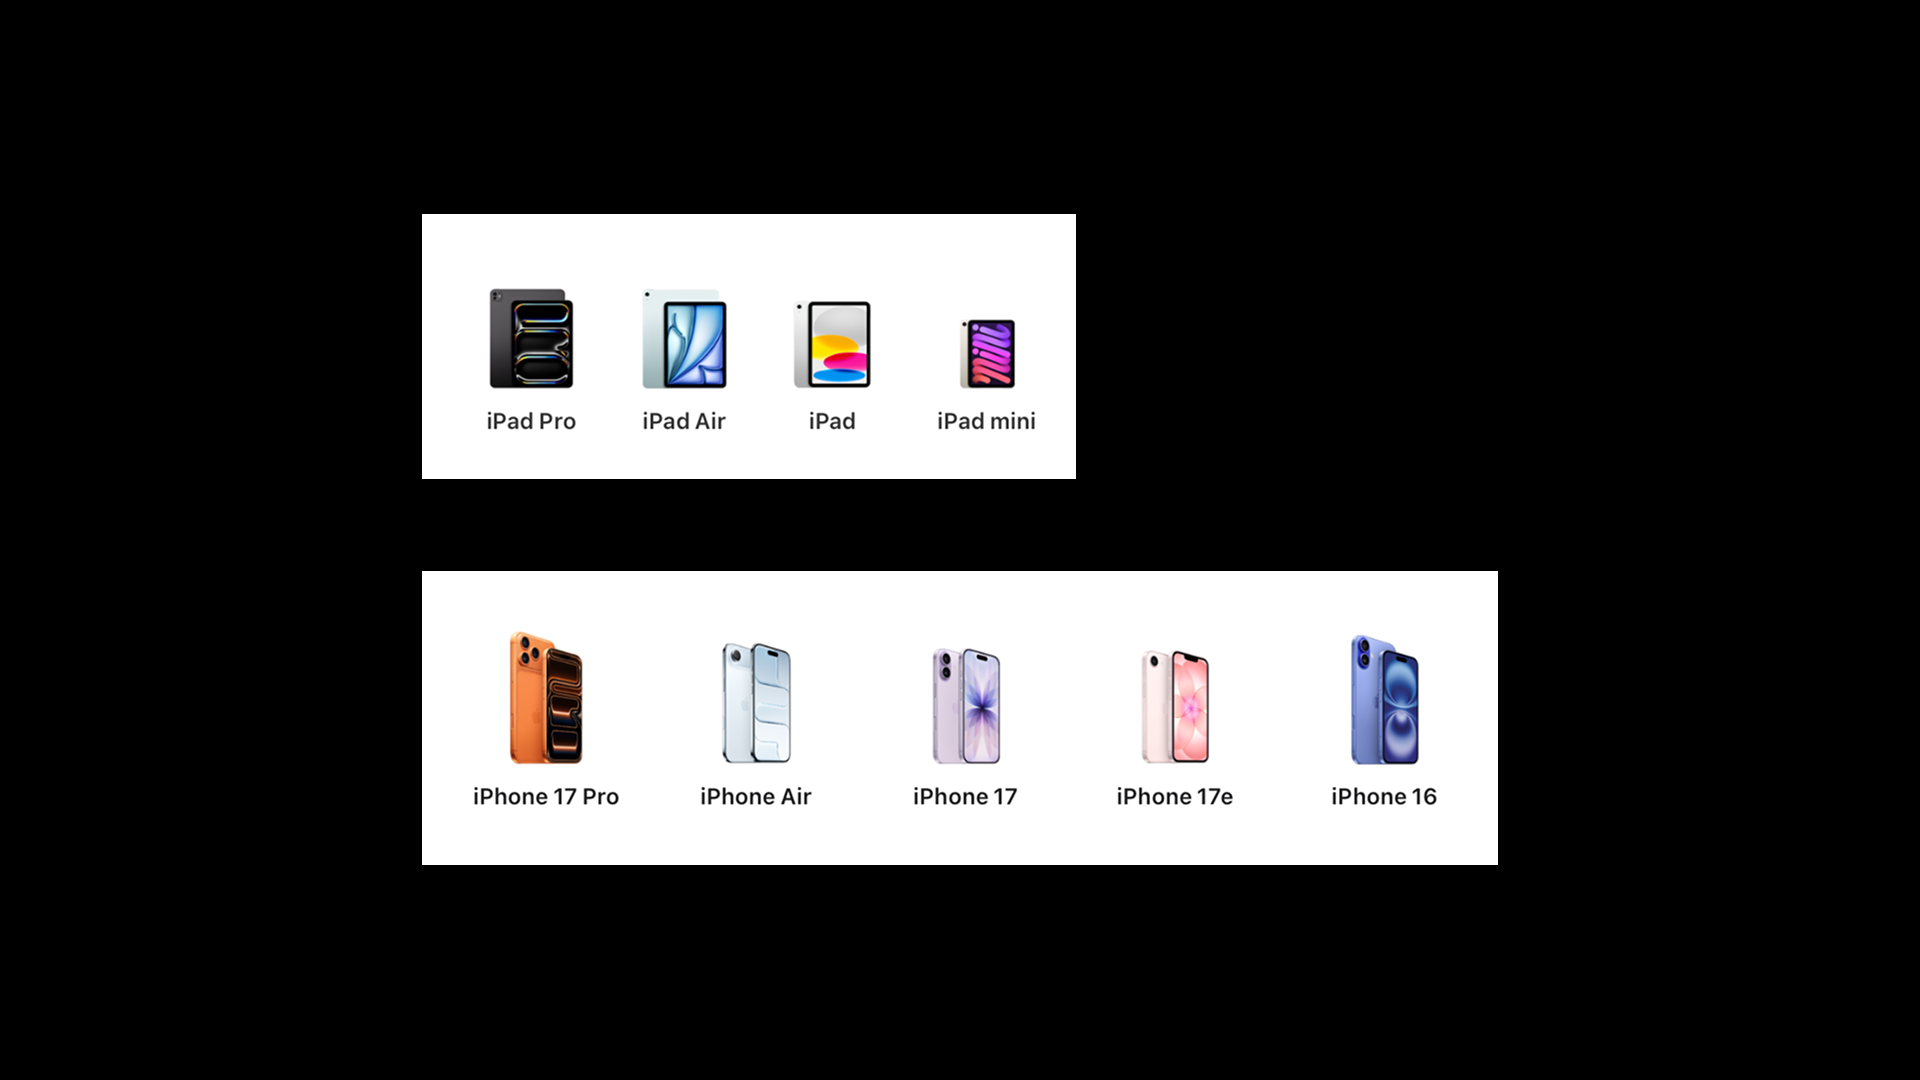
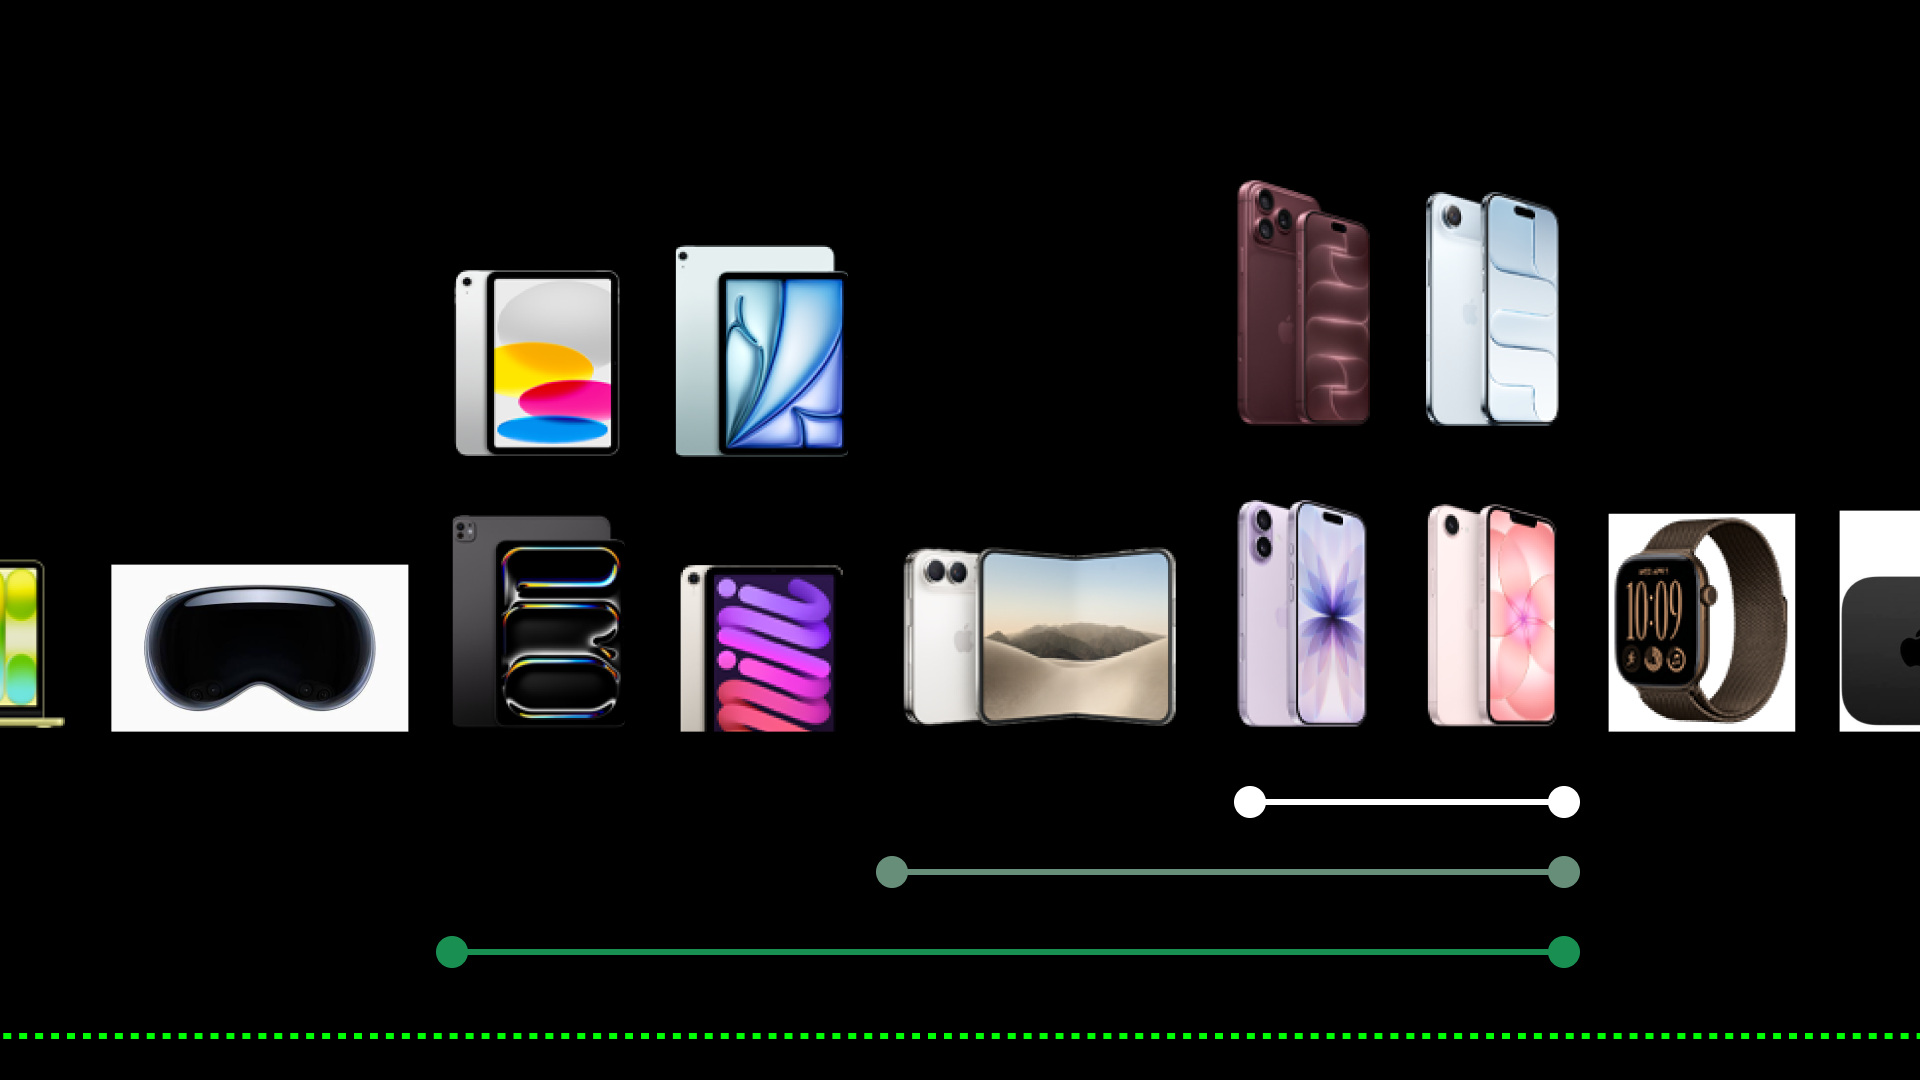
add

diff --git a/iOSDC/26/presentation.md b/iOSDC/26/presentation.md
@@ -487,19 +487,12 @@ code: SF Mono
 
 ---
 
-# 多様化するiPhoneライクデバイス
-
-- iPhone
-- iPhone 17e
-- iPhone 17 Pro
-- iPhone 17 Pro Max
-- iPad
-- iPad mini ...etc
-
 ![](38.png)
 
-^ 先日も新製品が発表されましたが、iPhoneの類似デバイスは多様化しています。
-^ これらのデバイスは細かい特徴が異なるものの、現時点ではWatchOSやmacOSと比べると類似性が高く、柔軟性を持たせる上での最初のステップとして良い題材になるかなと思います。
+^ 先日も新製品が発表されましたが、デバイスの種類は非常に多様化しています。
+^ しかしMacやWatchのように大きく異なるデバイスをいきなり考える必要はありません。
+^ この膨大なデバイスのバリエーションを活用して、まずは小さな違いから順に対応を進めていくとよいでしょう。
+^ まずは、同じiPhoneの中にある小さな違いから見ていきましょう。
 
 ---
 
